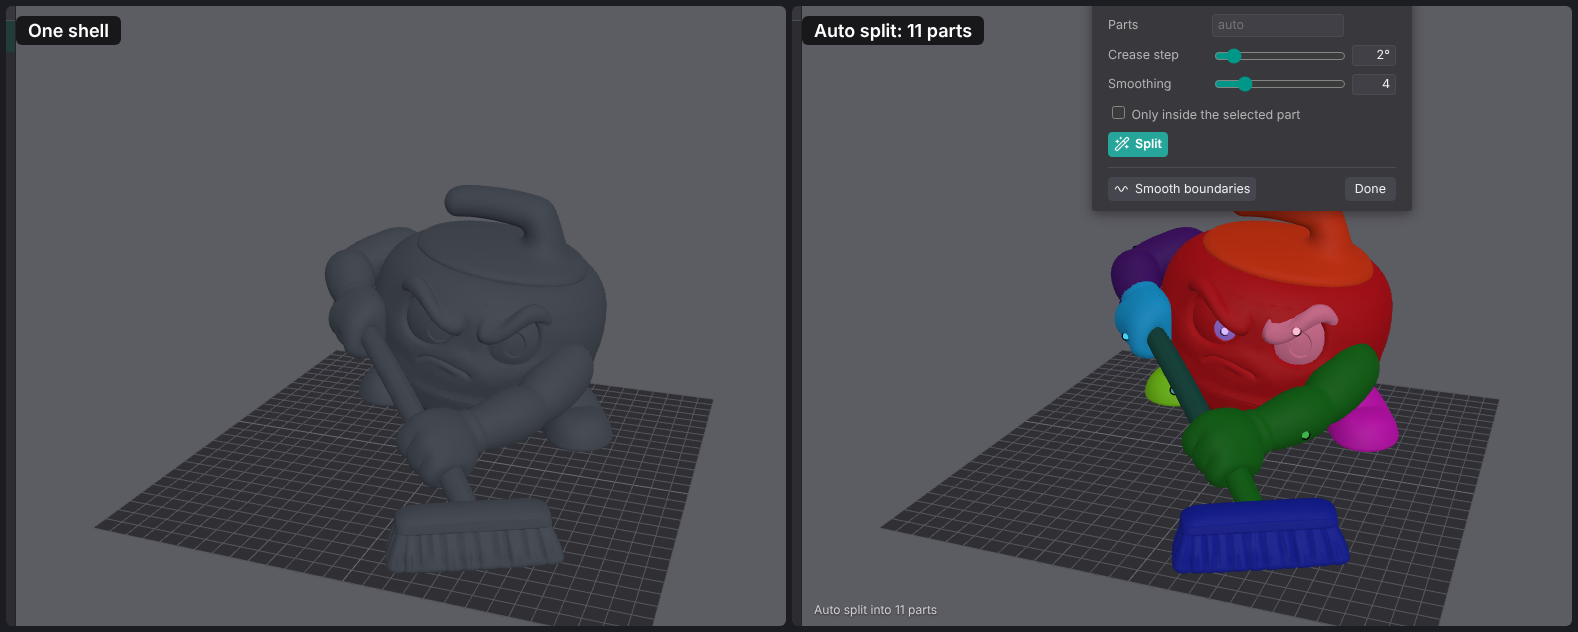
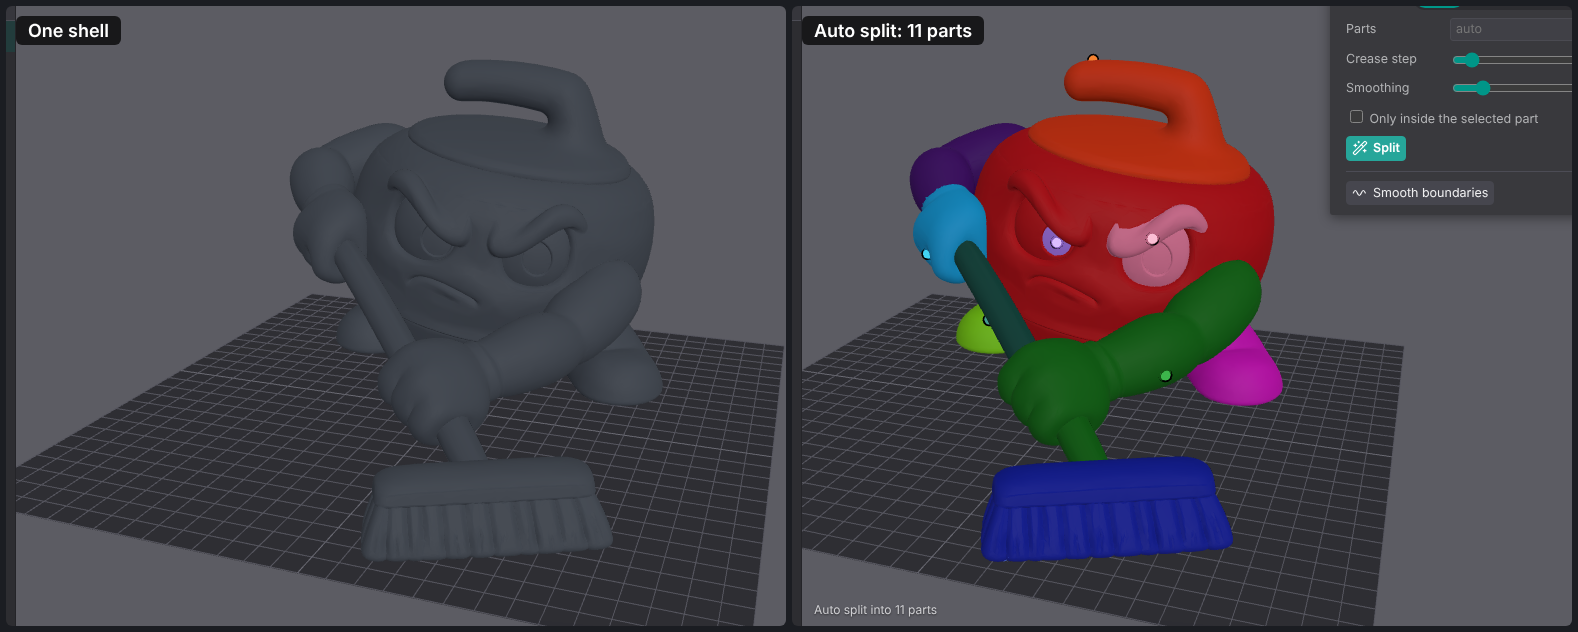
Dock tool panels at the right and keep the model clear of them
The Split and Transform panels covered the model when they hung under
their toolbar icons. They now dock at the right of the view, and while
one is open the camera's view offset moves the view center into the
space left of it, so the model stays in sight at the same size.

Claude-Session: https://claude.ai/code/session_01FChPq4qKow3tQhY8bHxGrM

diff --git a/app/index.html b/app/index.html
@@ -108,7 +108,7 @@
   #dropOrca button:hover, #dropRecent button:hover { background:#4D4D54; }
   #dropOrca .meta, #dropRecent .meta { margin-left:auto; padding-left:12px; color:var(--mute); font-size:11px; }
   /* tool panels hang under their toolbar icon, like Orca's gizmo panels */
-  .gp { top:44px; z-index:4; padding:12px 16px 10px; display:flex; flex-direction:column; gap:8px; width:320px; }
+  .gp { top:48px; right:12px; max-height:calc(100% - 140px); overflow:auto; z-index:4; padding:12px 16px 10px; display:flex; flex-direction:column; gap:8px; width:320px; }
   .gp h3 { margin:0; font-size:13.5px; font-weight:600; }
   .gp .ft { display:flex; align-items:center; gap:8px; border-top:1px solid var(--sep); padding-top:9px; margin-top:2px; }
   .gp button { background:var(--btn2); border-color:var(--btn2); }
@@ -427,7 +427,9 @@ scene.add(seedGroup);
 
 function resize() {
   const w = view.clientWidth, h = view.clientHeight;
-  renderer.setSize(w, h); camera.aspect = w / h; camera.updateProjectionMatrix(); render();
+  renderer.setSize(w, h); camera.aspect = w / h;
+  if (camera.view?.enabled) camera.setViewOffset(w, h, camera.view.offsetX, 0, w, h);
+  camera.updateProjectionMatrix(); render();
 }
 function render() { renderer.render(scene, camera); }
 controls.addEventListener("change", render);
@@ -1370,10 +1372,15 @@ $("pcName").onblur = () => { const p = act(); if (p) $("pcName").value = p.name;
 $("pcFil").onchange = () => { const p = act(); if (p) { p.filament = Math.max(1, Math.min(32, Math.round(+$("pcFil").value || 1))); refreshUI(); autosave(); } };
 $("pcClose").onclick = () => selectPart(0);
 $("pcDel").onclick = () => S.active > 0 && deletePart(S.active);
-// Tool panels hang under their toolbar icon, like OrcaSlicer's gizmo panels.
-function anchorPanel(panel, btn) {
-  const b = btn.getBoundingClientRect(), v = view.getBoundingClientRect();
-  panel.style.left = `${Math.max(8, Math.min(b.left - v.left - 6, v.width - panel.offsetWidth - 8))}px`;
+// Tool panels dock at the right of the view. While one is open, the view's center moves to the middle of the
+// space left of it, so the model isn't hidden behind the panel and keeps its size.
+function fitViewToPanels() {
+  const w = view.clientWidth, h = view.clientHeight;
+  const open = [...document.querySelectorAll("#view > .gp")].find((g) => !g.hidden);
+  const shift = open && w > 2 * open.offsetWidth ? Math.round((open.offsetWidth + 12) / 2) : 0;
+  if (shift === (camera.view?.enabled ? camera.view.offsetX : 0)) return;
+  if (shift) camera.setViewOffset(w, h, shift, 0, w, h); else camera.clearViewOffset();
+  render();
 }
 // Split panel: one place for every way to split. Seeds and Paint are the seed / brush / fill tools.
 let splitMethod = "auto";
@@ -1384,7 +1391,8 @@ function showSplit(on, m = splitMethod) {
   document.querySelectorAll("#splitMethods [data-method]").forEach((b) => b.classList.toggle("on", b.dataset.method === m));
   P.querySelectorAll("[data-m]").forEach((d) => d.classList.toggle("show", d.dataset.m.split(" ").includes(m)));
   syncGizmo();
-  if (on) { anchorPanel(P, $("autoBtn")); renderPaintSw(); }
+  if (on) renderPaintSw();
+  fitViewToPanels();
 }
 function setSplitMethod(m) {
   showSplit(true, m);
@@ -1759,7 +1767,7 @@ function syncGizmo() {
   $("gzJoint").classList.toggle("on", gzJointOn);
   const card = $("xfCard"), show = gzOn && i >= 0 && S.tool === "orbit" && !placing && !pickingJoint && $("splitPanel").hidden;
   card.hidden = !show;
-  if (show) anchorPanel(card, document.querySelector(`#gzModes [data-gz="${gzMode}"]`));
+  fitViewToPanels();
   $("gzCenter").classList.toggle("on", !gzJointOn);
   if (!gzOn || i < 0 || S.tool !== "orbit" || placing || pickingJoint) { jointAxis.visible = false; if (gizmo.object) { gizmo.detach(); render(); } return; }
   if (gizmo.dragging) return;

diff --git a/docs/features/transforms.md b/docs/features/transforms.md
@@ -21,7 +21,7 @@ Each part can be moved, rotated and scaled on its own. The change shows in the v
    - **R:** scale handles (corner box = all axes, arrow = one axis). Shift snaps to 5%.
    - **J:** [rotate on joint](#rotate-on-joint).
    - **Q:** hide the handles.
-3. Or type values in the **Transform** panel that opens under the move / rotate / scale icons: position mm, rotation ° and scale % for X / Y / Z. **Uniform scale** scales all three axes together. **Reset** clears the part's transform and **Done** closes the panel.
+3. Or type values in the **Transform** panel that opens at the right of the view with the move / rotate / scale tools: position mm, rotation ° and scale % for X / Y / Z. **Uniform scale** scales all three axes together. **Reset** clears the part's transform and **Done** closes the panel.
 
 ### Undo
 

diff --git a/docs/features/splitting.md b/docs/features/splitting.md
@@ -15,7 +15,7 @@ Splits the whole mesh into parts in one click. Cuts land on concave creases (the
 ### How to use it
 
 1. Open an STL or 3MF. A single-shell mesh is auto split as soon as it opens.
-2. To split again, click **Split** in the toolbar (or press **A**). The Split panel opens under it on **Auto**.
+2. To split again, click **Split** in the toolbar (or press **A**). The Split panel opens at the right of the view on **Auto**.
 3. Set **Parts**, or leave it empty to pick the count automatically. Tick **Only inside the selected part** to split just that part.
 4. Click **Split**.
 
